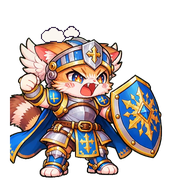
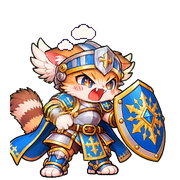
Angry emoji: build the loop around the stomp
The foot lifts slowly and holds high, slams down in 3 quick frames,
and the landing holds while pixel-art dust clouds burst left and right
of the foot with small impact ticks. The shouting part is shorter so
the stomp stands out. 19 frames, 2 s per loop x 2 = 4 s, 229 KB.

Claude-Session: https://claude.ai/code/session_01CqN5TM8CtnKZx6KMXb1z93

diff --git a/line-stickers/animated-emoji/19-angry/make_angry.py b/line-stickers/animated-emoji/19-angry/make_angry.py
@@ -1,19 +1,24 @@
-"""Angry emoji: the stomp and the rage part of the Kling clip, played forward and back
-at an even speed, plus pixel-art steam puffs."""
+"""Angry emoji built around the stomp: the foot lifts and holds, slams down fast, the
+landing holds with a dust burst, then a short shouting part. Plus pixel-art steam."""
 import sys, os
 import numpy as np
 from PIL import Image, ImageDraw
 SRC, OUT = sys.argv[1], sys.argv[2]            # folder of green-removed video frames (NNN.png), output folder
-W, LOOP_MS = 540, 1000                          # working canvas (3x of 180), one loop
+W, LOOP_MS = 540, 2000                          # working canvas (3x of 180), one loop
 INK, STEAM = (42, 26, 58, 255), (250, 246, 240, 255)
-# video frames 8..29 (foot up -> stomp -> shouting), dense around the stomp, then back again
-FWD = [8, 9, 10, 11, 12, 14, 17, 20, 23, 26, 29]
-SEQ = FWD + FWD[-2:0:-1]                        # 20 frames, ping-pong
-SEQ = SEQ[4:] + SEQ[:4]                         # start on the stomp landing (the still LINE shows)
-# show each frame for as long as the video takes to reach the next one, so the speed is even
-gaps = [abs(SEQ[(k+1) % len(SEQ)] - SEQ[k]) for k in range(len(SEQ))]
-durs = [round(g * LOOP_MS / sum(gaps)) for g in gaps]
-durs[-1] += LOOP_MS - sum(durs)
+# (video frame, ms). Video frames 8..26: foot up (8) -> landing (12) -> shouting (14..26).
+SHOT = ([(12, 90)] * 3                                       # landing, held for 3 frames while the dust bursts
+        + [(f, 95) for f in (14, 17, 20, 23, 26, 23, 20, 17, 14)]   # shouting and punching
+        + [(f, 75) for f in (11, 10, 9)]                     # foot lifts (wind-up)
+        + [(8, 300)]                                         # foot held high
+        + [(f, 30) for f in (9, 10, 11)])                    # slam down
+SEQ = [f for f, _ in SHOT]
+durs = [d for _, d in SHOT]
+slow = [k for k, d in enumerate(durs) if d > 30]             # stretch everything but the slam to fit the loop
+extra = LOOP_MS - sum(durs)
+for k in slow: durs[k] += extra * durs[k] // sum(durs[j] for j in slow)
+durs[0] += LOOP_MS - sum(durs)
+FOOT = (55, 166)                                # landing foot on the 180 grid (from frame 12)
 box = (0, 30, 960, 946)                         # union bbox of the frames used
 s = 0.5
 cw, ch = round((box[2]-box[0])*s), round((box[3]-box[1])*s)
@@ -37,6 +42,22 @@ def steam(g, x, y, p):
             rr = rad - k
             g.ellipse([x+ox-rr, y+oy-rr, x+ox+rr, y+oy+rr], fill=fill)
 
+def dust(g, p):
+    """Dust clouds bursting left and right of the landing foot over its life p in [0, 1)."""
+    fx, fy = FOOT
+    r = round(5 + 4*p); spread = round(10 + 16*p)
+    for side in (-1, 1):
+        x = fx + side*spread
+        for rad, fill in ((r+1, INK), (r, STEAM)):
+            for ox, oy, k in ((0, 0, 0), (side*r, 1, 1)):
+                rr = rad - k
+                g.ellipse([x+ox-rr, fy+oy-rr, x+ox+rr, fy+oy+rr], fill=fill)
+    if p < 0.35:                                # impact ticks right after landing
+        for dx, dy in ((-14, -12), (0, -18), (14, -12)):
+            x0, y0 = fx + dx, fy + dy
+            g.line([x0, y0, x0 + dx//3, y0 + dy//3], fill=INK, width=3)
+            g.line([x0, y0, x0 + dx//3, y0 + dy//3], fill=STEAM, width=1)
+
 src = {i: Image.open(f"{SRC}/{i:03d}.png") for i in set(SEQ)}
 heads = {i: head(f) for i, f in src.items()}
 out, t = [], 0
@@ -47,7 +68,8 @@ for k, i in enumerate(SEQ):
     hx, hy = map(round, heads[i])
     lo = Image.new('RGBA', (W//3, W//3), (0, 0, 0, 0)); g = ImageDraw.Draw(lo)
     for phase, dx, dy in ((0.0, -30, -10), (0.5, -12, -18)):  # two puffs, half a cycle apart
-        steam(g, hx+dx, hy+dy, (t / 500 + phase) % 1)            # by time: 2 puffs per loop each
+        steam(g, hx+dx, hy+dy, (t / 500 + phase) % 1)            # by time: 4 puffs per loop each
+    if t < 420: dust(g, t / 420)                                  # the burst lasts 0.42 s after landing
     c.alpha_composite(lo.resize((W, W), Image.NEAREST)); out.append(c)
     t += durs[k]
 
@@ -63,6 +85,6 @@ def save(frs, path, durs, loop):
 f180 = [o.convert('RGBa').resize((180, 180), Image.LANCZOS).convert('RGBA') for o in out]
 for i, f in enumerate(f180): f.save(f"{OUT}/frames/{i+1:02d}.png")
 print('frames', SEQ); print('ms', durs)
-save(f180, f"{OUT}/angry.png", durs, 4)
+save(f180, f"{OUT}/angry.png", durs, 2)       # 2 s x 2 = 4 s
 save([o.convert('RGBa').resize((360, 360), Image.LANCZOS).convert('RGBA') for o in out],
      f"{OUT}/preview-angry.png", durs, 0)
